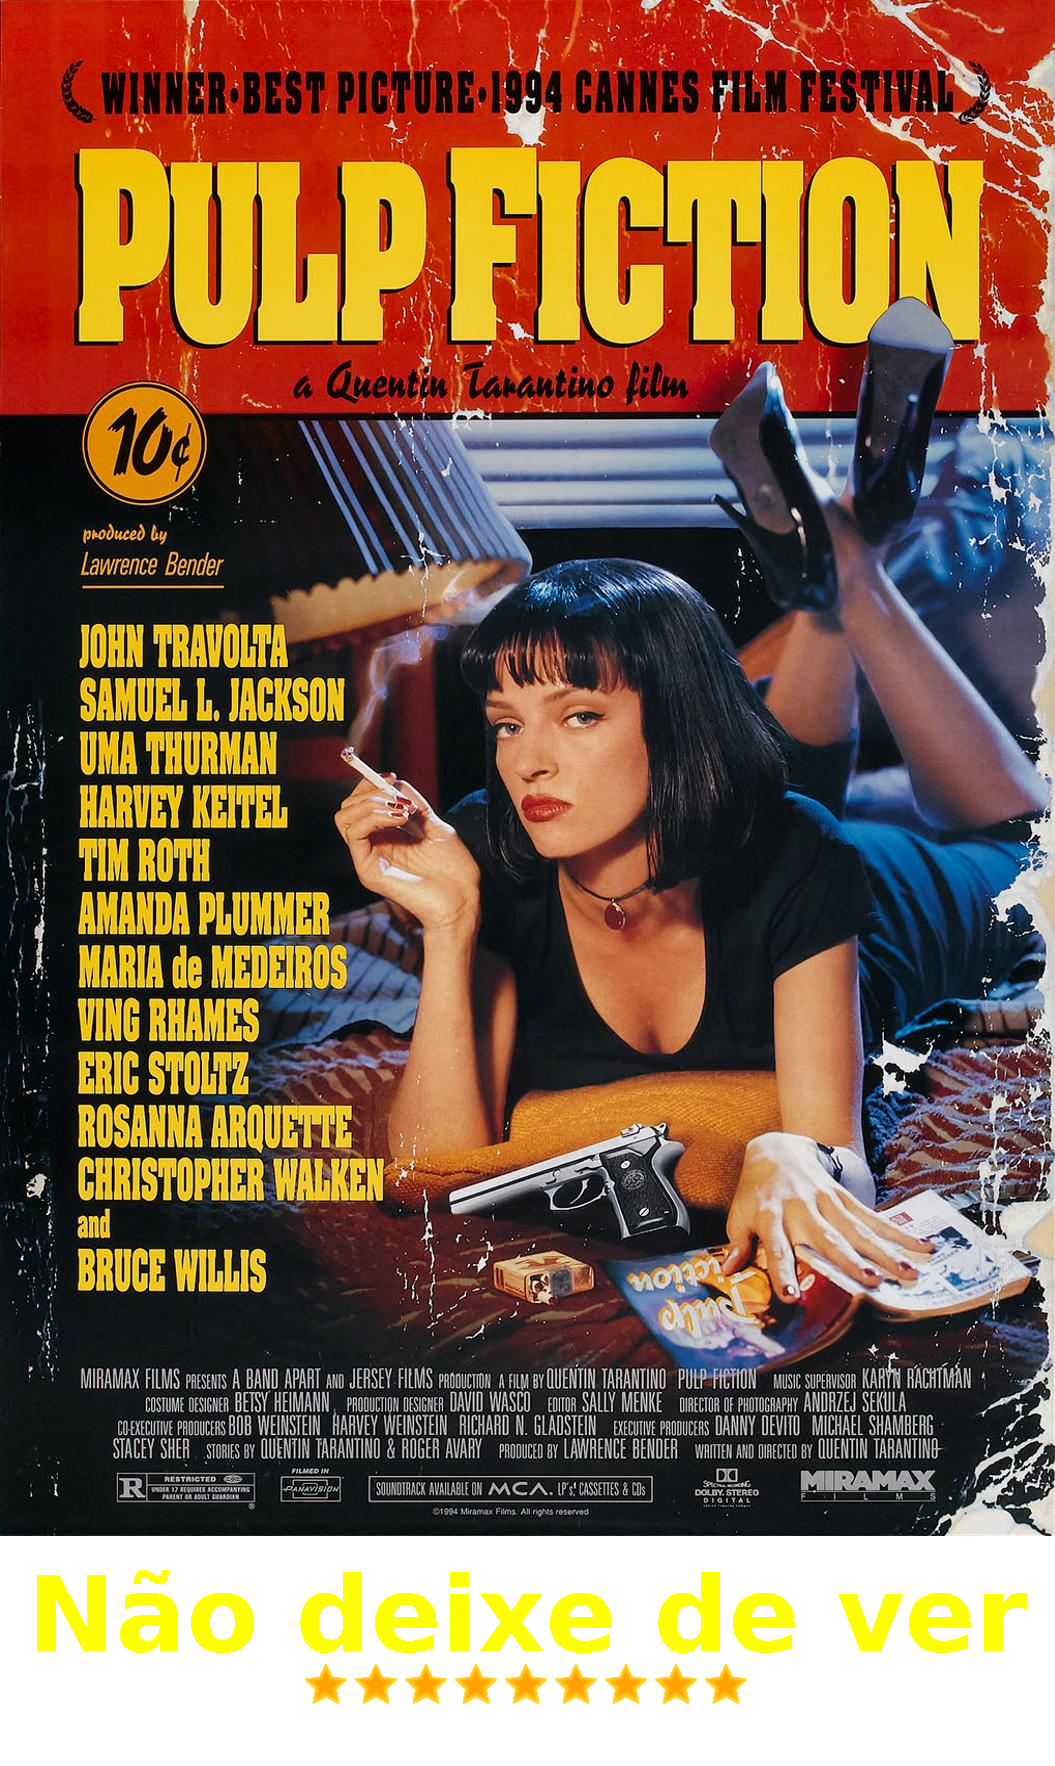
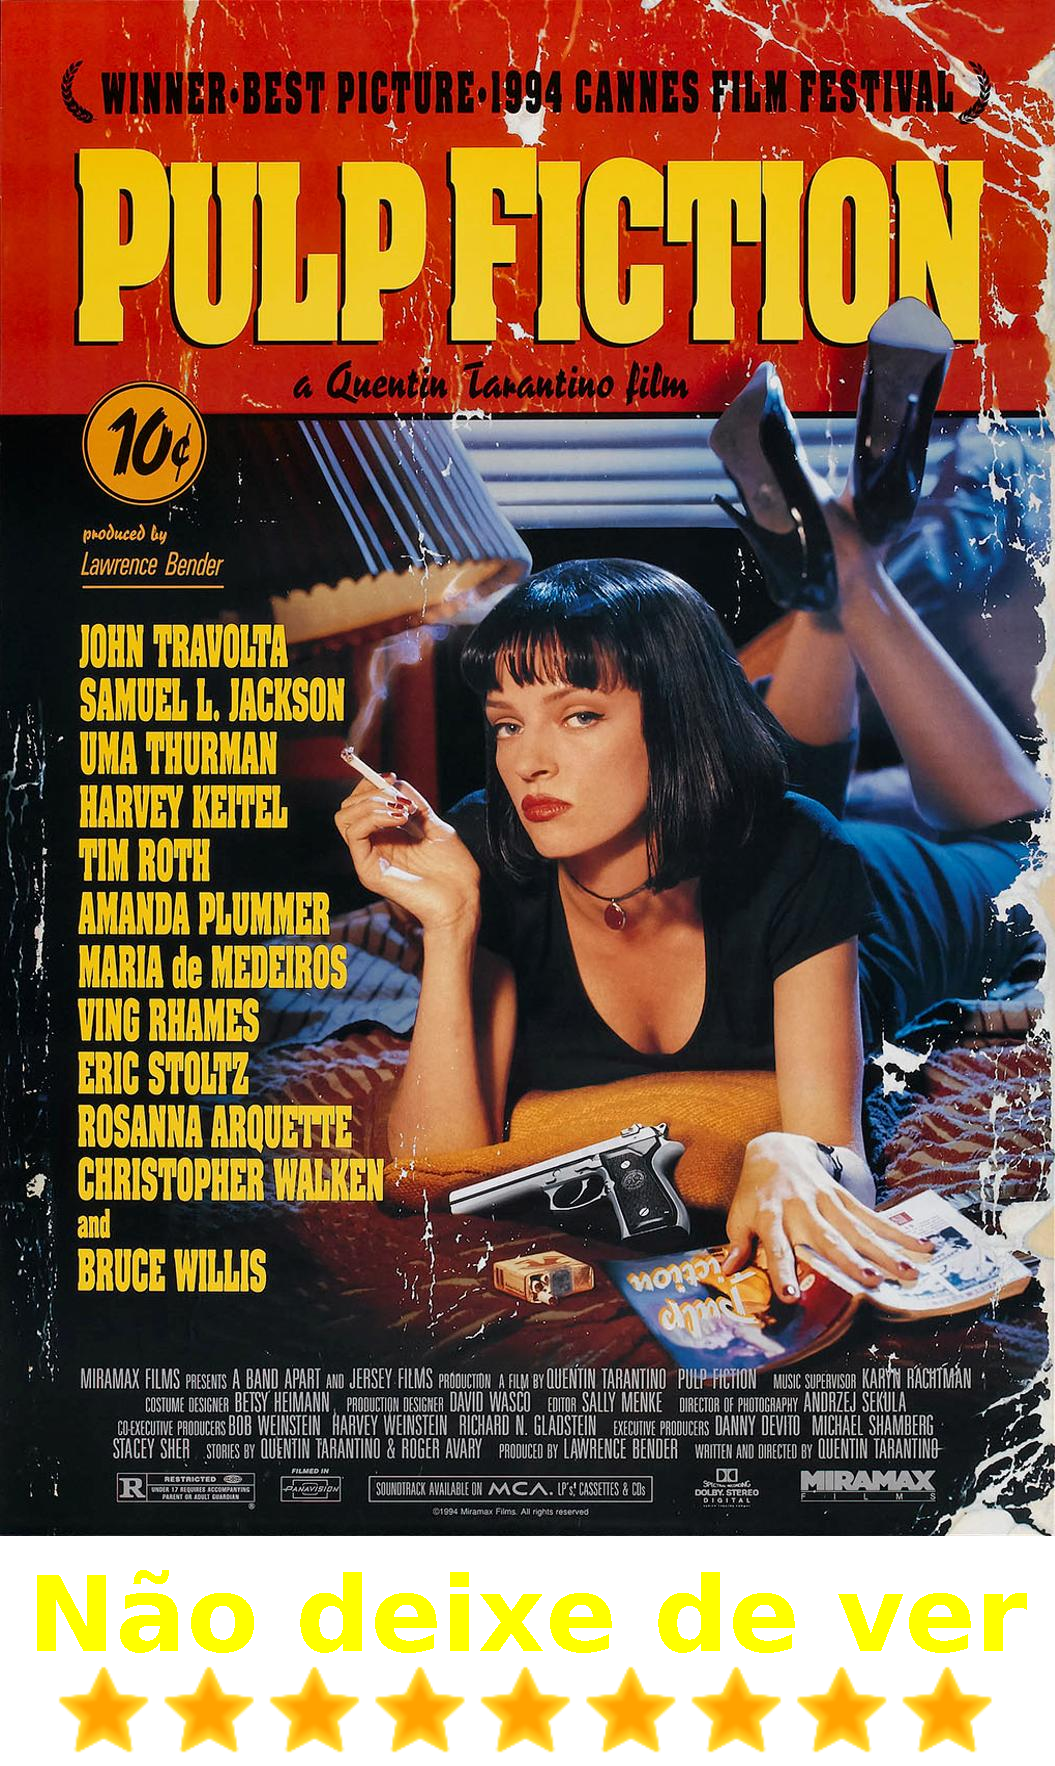
Making stars proportional to the sitcker

Changed region(s): [[0.273, 0.9343, 0.728, 0.9966], [0.7583, 0.9343, 0.9403, 0.9966], [0.0607, 0.9343, 0.2427, 0.9966]]

diff --git a/src/entertaimentContent/imdb/ImdbMovie.java b/src/entertaimentContent/imdb/ImdbMovie.java
@@ -3,27 +3,24 @@ package entertaimentContent.imdb;
 import java.net.URL;
 import java.util.Date;
 
-public class ImdbMovie {
+import entertaimentContent.Content;
+
+public class ImdbMovie extends Content {
 	
 	private String id;
 	private Integer rank;
-	private String title;
 	private String fullTitle;
-	private URL imageUrl;
 	private String[] crew;
 	private Date year;
-	private Double imdbRating;
 	private Double imdbRatingCount;
 
 	public ImdbMovie(String id, Integer rank, String title, String fullTitle, URL imageUrl, String[] crew, Date year, Double imdbRating, Double imdbRatingCount) {
+		super(title, imageUrl, imdbRating);
 		this.id = id;
 		this.rank = rank;
-		this.title = title;
 		this.fullTitle = fullTitle;
-		this.imageUrl = imageUrl;
 		this.crew = crew;
 		this.year = year;
-		this.imdbRating = imdbRating;
 		this.imdbRatingCount = imdbRatingCount;
 	}
 
@@ -35,16 +32,8 @@ public class ImdbMovie {
 		return rank;
 	}
 
-	public String getTitle() {
-		return title;
-	}
-
 	public String getFullTitle() {
 		return fullTitle;
-	}
-
-	public URL getImageUrl() {
-		return imageUrl;
 	}
 
 	public String[] getCrew() {
@@ -53,10 +42,6 @@ public class ImdbMovie {
 
 	public Date getYear() {
 		return year;
-	}
-
-	public Double getImdbRating() {
-		return imdbRating;
 	}
 
 	public Double getImdbRatingCount() {

diff --git a/src/factory/ProductionCenter.java b/src/factory/ProductionCenter.java
@@ -4,7 +4,7 @@ import java.net.MalformedURLException;
 import java.text.ParseException;
 import java.util.List;
 
-import entertaimentContent.imdb.ImdbMovie;
+import entertaimentContent.Content;
 import extractor.ImdbExtractor;
 import http.MyHttpClient;
 
@@ -13,13 +13,20 @@ public class ProductionCenter {
 	public static void main(String[] args) throws ParseException, MalformedURLException {
 
 		String url = "https://mocki.io/v1/9a7c1ca9-29b4-4eb3-8306-1adb9d159060";
-		String json  = (new MyHttpClient()).getContent(url);
-		var extractor = new ImdbExtractor();
+		String json  = MyHttpClient.getContent(url);
+		ImdbExtractor extractor = new ImdbExtractor();
 		
-		List<ImdbMovie> movies = extractor.data(json);
+		List<Content> movies = extractor.data(json);
 		
 		for (int k = 1; k < 10; k++) {
-			StickerGenerator.producer(movies.get(k).getImageUrl(), movies.get(k).getTitle(), movies.get(k).getImdbRating());
+			var imageUrl = movies.get(k).getImageUrl();
+			var title = movies.get(k).getTitle();
+			var rating = movies.get(k).getRating();
+			
+			System.out.println(title);
+			System.out.println(String.format("%.0f", rating) + "\n");
+			
+			StickerGenerator.producer(imageUrl, title, rating);
 		}
 		
 	}

diff --git a/src/factory/StickerGenerator.java b/src/factory/StickerGenerator.java
@@ -11,6 +11,8 @@ import java.nio.file.Path;
 
 import javax.imageio.ImageIO;
 
+import org.imgscalr.Scalr;
+
 import factory.classification.Classification;
 import factory.classification.Rating;
 
@@ -33,7 +35,7 @@ public class StickerGenerator {
 			Graphics2D graphics = sticker.createGraphics();
 			
 			var font = new Font(Font.SANS_SERIF, Font.BOLD, (poster.getWidth() * 10/100));
-			graphics.drawImage(poster, 0, 0, null);		
+			graphics.drawImage(poster, 0, 0, null);	
 			graphics.setFont(font);
 			graphics.setColor(Color.YELLOW);
 			
@@ -49,7 +51,7 @@ public class StickerGenerator {
 			
 			int centerOfSticker = sticker.getWidth() / 2;
 			int centerOfText = (graphics.getFontMetrics().stringWidth(evaluation) / 2);
-			var stars = rating.getStars();
+			var stars = Scalr.resize(rating.getStars(), sticker.getWidth() * 90/100);
 			
 			graphics.drawString(evaluation, centerOfSticker - centerOfText, sticker.getHeight() - (fifteenPerCentOfPosterHeight/2));
 			graphics.drawImage(stars, centerOfSticker - (stars.getWidth() / 2), sticker.getHeight() - (fifteenPerCentOfPosterHeight/2) + 10, null);

diff --git a/src/extractor/ImdbExtractor.java b/src/extractor/ImdbExtractor.java
@@ -9,16 +9,17 @@ import java.util.Date;
 import java.util.List;
 import java.util.Map;
 
+import entertaimentContent.Content;
 import entertaimentContent.imdb.ImdbMovie;
 
-public class ImdbExtractor {
+public class ImdbExtractor implements Extractor {
 	
-	public List<ImdbMovie> data (String json) {
+	public List<Content> data (String json) {
 		
 		try {
 			
 			List<Map<String, String>> data = (new JsonParser()).parse(json);
-			List<ImdbMovie> movies = new ArrayList<>();
+			List<Content> movies = new ArrayList<>();
 			
 			for (Map<String, String> movie : data) {
 				String id = movie.get("id");

diff --git a/src/entertaimentContent/Content.java b/src/entertaimentContent/Content.java
@@ -1,0 +1,28 @@
+package entertaimentContent;
+
+import java.net.URL;
+
+public abstract class Content {
+
+	private String title;
+	private URL imageUrl;
+	private Double rating;
+	
+	public Content (String title, URL imageUrl, Double rating) {
+		this.title = title;
+		this.imageUrl = imageUrl;
+		this.rating = rating;
+	}
+	
+	public String getTitle() {
+		return title;
+	}
+	
+	public URL getImageUrl() {
+		return imageUrl;
+	}
+	
+	public Double getRating() {
+		return rating;
+	}
+}

diff --git a/src/http/MyHttpClient.java b/src/http/MyHttpClient.java
@@ -9,7 +9,7 @@ import java.net.http.HttpResponse.BodyHandlers;
 
 public class MyHttpClient {
 	
-	public String getContent (String url) {
+	public static String getContent (String url) {
 		
 		try {
 			

diff --git a/src/extractor/Extractor.java b/src/extractor/Extractor.java
@@ -1,0 +1,11 @@
+package extractor;
+
+import java.util.List;
+
+import entertaimentContent.Content;
+
+public interface Extractor {
+
+	List<Content> data (String json);
+	
+}

diff --git a/src/module-info.java b/src/module-info.java
@@ -2,4 +2,5 @@ module module {
 	requires com.google.gson;
 	requires java.net.http;
 	requires java.desktop;
+	requires imgscalr.lib;
 }
